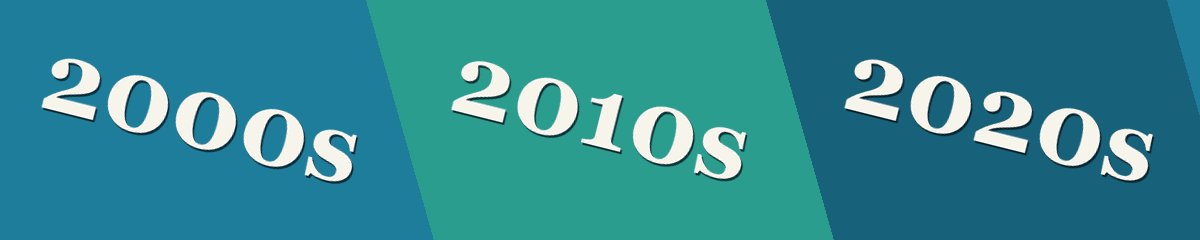
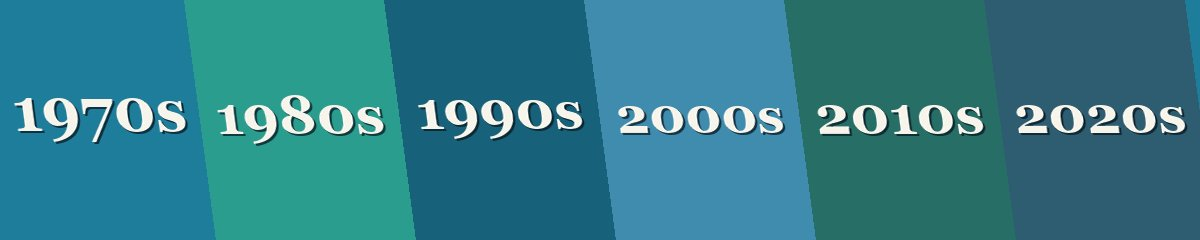
Gallery collage: 6 decade slices (1970s-2020s), text sheared to match band slant

diff --git a/index.html b/index.html
@@ -238,7 +238,7 @@
   .btn.bg-walks small{color:#42513a}
   .btn.bg-gallery{position:relative; overflow:hidden; border-color:#c3d3d9}
   .btn.bg-gallery::before{content:""; position:absolute; inset:0; z-index:0;
-    background:linear-gradient(90deg, rgba(251,247,239,.93) 0%, rgba(251,247,239,.80) 45%, rgba(251,247,239,.5) 100%), url(img/collage-gallery.jpg?v=5) center/cover no-repeat;}
+    background:linear-gradient(90deg, rgba(251,247,239,.93) 0%, rgba(251,247,239,.80) 45%, rgba(251,247,239,.5) 100%), url(img/collage-gallery.jpg?v=6) center/cover no-repeat;}
   .btn.bg-gallery > *{position:relative; z-index:1}
   .btn.bg-gallery small{color:#33505c}
 

diff --git a/sw.js b/sw.js
@@ -1,4 +1,4 @@
-const CACHE = 'portscatho-v28';
+const CACHE = 'portscatho-v29';
 const ASSETS = ['index.html', 'manifest.webmanifest', 'icons/icon.svg', 'tides.json'];
 
 self.addEventListener('install', e => {
